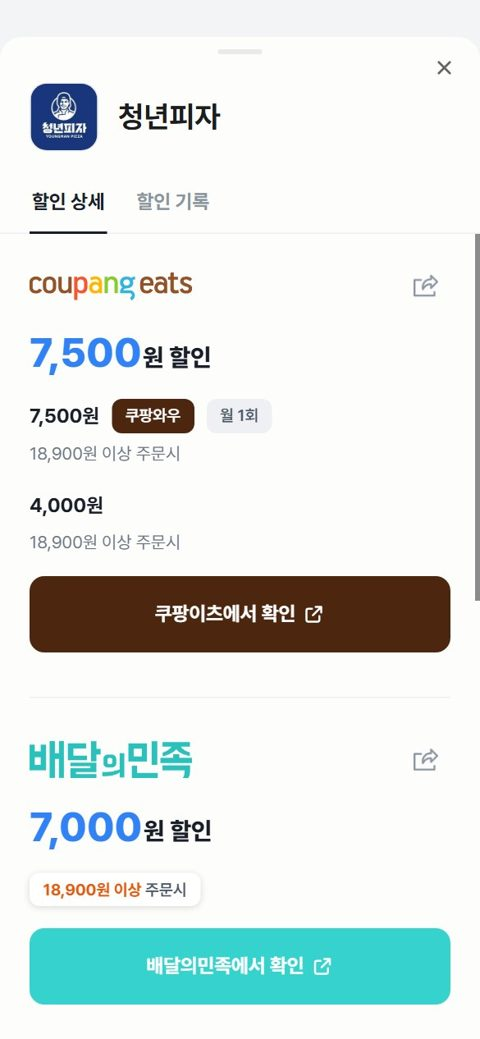
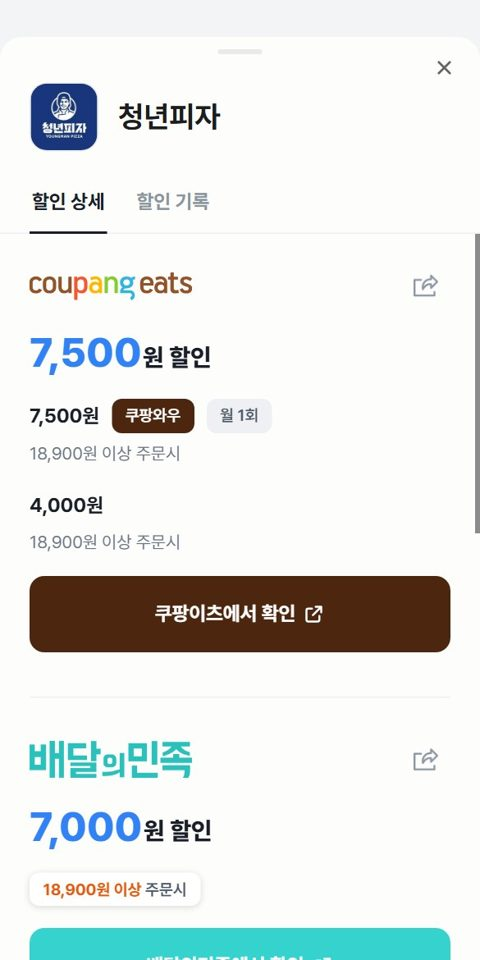
mirror: woowacourse-teams/2026-to-discount@e505160c30e996b55fed7e2d63073cb35e5df7a6
이 저장소에 직접 커밋하지 않는다. 원본은 woowacourse-teams/2026-to-discount의 web/ 이고, 여기 직접 넣은 것은 다음 미러에 덮인다.

diff --git a/public/about/index.html b/public/about/index.html
@@ -48,7 +48,8 @@
 
     .slide { position: relative; height: 100dvh; display: flex; flex-direction: column; justify-content: center; padding: 72px 20px 88px; overflow: hidden; overflow: clip; }
     .slide__in { width: 100%; max-width: 1080px; margin: 0 auto; }
-    .brand { position: absolute; top: 20px; left: 20px; right: 20px; max-width: 1080px; margin: 0 auto; font-weight: 800; text-decoration: none; letter-spacing: -.01em; }
+    .brand { position: absolute; top: 12px; left: 12px; display: flex; align-items: center; gap: 8px; font-weight: 800; text-decoration: none; letter-spacing: -.01em; z-index: 3; } /* 왼쪽 위 모서리. 로고는 .brand__logo에 src를 넣고 hidden을 지우면 이름 앞에 붙는다 */
+    .brand__logo { width: 24px; height: 24px; border-radius: 6px; object-fit: contain; }
     .next { position: absolute; left: 50%; bottom: 24px; transform: translateX(-50%); width: 40px; height: 40px; display: grid; place-items: center; border-radius: 50%; color: var(--muted); text-decoration: none; z-index: 2; }
     .next svg { width: 20px; height: 20px; }
     @media (max-width: 767px) { .next { bottom: 6px; width: 36px; height: 36px; background: color-mix(in srgb, var(--bg) 72%, transparent); } }
@@ -73,7 +74,7 @@
     .split .btn { margin-top: 28px; }
     @media (max-width: 767px) { #s1 .btn { display: flex; width: fit-content; margin-left: auto; margin-right: auto; } }
     .phone { justify-self: center; width: min(calc(100vw - 32px), 450px); padding: 10px; border-radius: 48px; background: var(--bezel); box-shadow: 0 30px 70px -30px rgba(49, 130, 246, .35); }
-    .phone__screen { position: relative; aspect-ratio: 390 / 844; border-radius: 38px; overflow: hidden; overflow: clip; background: #fbfbfa; }
+    .phone__screen { position: relative; aspect-ratio: 390 / 780; border-radius: 38px; overflow: hidden; overflow: clip; background: #fbfbfa; }
     .phone__screen::before { content: ''; position: absolute; top: 7px; left: 50%; width: 7px; height: 7px; transform: translateX(-50%); border-radius: 50%; background: var(--bezel); z-index: 1; } /* 카메라 구멍: 표시만 */
     .phone img { display: block; width: 100%; height: 100%; object-fit: cover; object-position: top; }
     .apps { display: flex; gap: 10px; margin-bottom: 22px; }
@@ -194,7 +195,7 @@
     }
       
     /* 폰 화면이 잘리지 않게: 데스크톱은 화면 높이에 맞춰 폰을 줄이고, 첫 장은 모바일에서 글을 작게 둔다 */
-    @media (min-width: 768px) { .slide--shot .phone { width: min(450px, calc((100dvh - 76px) * .462)); } .slide--shot .next { bottom: 6px; } }
+    @media (min-width: 768px) { .slide--shot .phone { width: min(480px, calc((100dvh - 90px) * .5)); } .slide--shot .next { bottom: 6px; } }
     @media (max-width: 767px) {
       #s1 { padding-top: 48px; }
       #s1 h1 { font-size: 2rem; }
@@ -227,7 +228,7 @@
       .slide--shot h1, .slide--shot h2 { flex: 0 0 42%; font-size: 1.2rem; line-height: 1.25; }
       .slide--shot .lead { flex: 1; margin: 0; font-size: .8rem; line-height: 1.45; }
       .slide--shot .lead br { display: none; }
-      .slide--shot .phone { width: min(100%, calc((100dvh - 190px) * .462 + 16px)); justify-self: center; align-self: center; padding: 8px; border-radius: 34px; }
+      .slide--shot .phone { width: min(100%, calc((100dvh - 218px) * .5 + 16px)); justify-self: center; align-self: center; padding: 8px; border-radius: 34px; }
       .slide--shot .phone__screen { border-radius: 27px; }
       #s1 h1 { font-size: 1.35rem; }
       #s1 .btn, #s2 .apps { display: none; }
@@ -243,7 +244,7 @@
     /* 3장: 청년피자 시트 폰, 쿠팡이츠 이름 옆 표시 */
     .tagc { margin-left: 6px; padding: 2px 9px; border: 1px solid var(--border); border-radius: 999px; font-size: .74rem; font-weight: 700; color: var(--muted); white-space: nowrap; }
     @media (min-width: 768px) {
-      #s3 .diff { grid-template-columns: 310px minmax(0, 1fr) min(290px, calc((100dvh - 130px) * .462 + 20px)); gap: 32px; }
+      #s3 .diff { grid-template-columns: 310px minmax(0, 1fr) min(300px, calc((100dvh - 90px) * .5)); gap: 32px; }
       #s3 .grid4 { max-width: 460px; }
       #s3 .phone { width: 100%; }
     }
@@ -257,7 +258,7 @@
       #s3 .grid4 .row + .row { display: none; }
       #s3 .grid4 img.shot { max-height: 96px; }
       #s3 .grid4 figcaption { font-size: .8rem; margin-top: 4px; }
-      #s3 .phone { width: min(100%, calc((100dvh - 320px) * .462 + 16px)); justify-self: center; padding: 8px; border-radius: 34px; }
+      #s3 .phone { width: min(100%, calc((100dvh - 330px) * .5 + 16px)); justify-self: center; padding: 8px; border-radius: 34px; }
       #s3 .phone__screen { border-radius: 27px; }
     }
     /* 마무리: 가운데 구분선(제목과 바로가기 사이) */
@@ -265,10 +266,10 @@
     @media (max-width: 767px) { .final .cta { border-left: 0; padding-left: 0; border-top: 1px solid var(--border); padding-top: 18px; align-items: center; text-align: center; } }
   
     /* 제목과 설명을 한 묶음으로: 사이에 구분선, 왼쪽 여백. 폰은 조금 아래로 */
-    :root { --hx: clamp(8px, 3.5vw, 56px); }
+    :root { --hx: clamp(12px, 3.5vw, 56px); }
     .split > div:first-child, .diff > div:first-child, .final .split > h2 { padding-left: var(--hx); }
     .slide--shot .lead, #s3 .lead { margin-top: 18px; padding-top: 18px; border-top: 1px solid var(--border); max-width: 24rem; }
-    .phone { margin-top: 18px; }
+    .phone { margin-top: 40px; }
     @media (max-width: 767px) {
       .split > div:first-child, .diff > div:first-child, .final .split > h2 { padding-left: 0; }
       .slide--shot { padding-left: 24px; }
@@ -276,9 +277,10 @@
       .slide--shot h1, .slide--shot h2, #s3 h2 { flex: 0 0 auto; max-width: 46%; padding-right: 14px; border-right: 1px solid var(--border); }
       .slide--shot .lead, #s3 .lead { flex: 0 1 auto; max-width: 52%; margin: 0; padding: 0 0 0 14px; border-top: 0; }
       .slide--shot .lead br, #s3 .lead br { display: inline; }
-      .phone { margin-top: 16px; }
-      .final h2 { padding-left: 8px; }
+      .phone { margin-top: 30px; }
+      .final h2 { padding-left: 12px; font-size: 1.3rem; }
     }
+      .final h2 { white-space: nowrap; font-size: clamp(1.5rem, 3.2vw, 2.6rem); }
   </style>
   <script>document.documentElement.classList.add('js')</script>
 </head>
@@ -287,7 +289,7 @@
    <div class="pg" id="pg" aria-hidden="true"></div>
    <div class="track">
     <section class="slide slide--shot" id="s1">
-      <a class="brand" href="/">배달앱 할인모음</a>
+      <a class="brand" href="/"><img class="brand__logo" alt="" hidden width="24" height="24" /><span class="brand__name">배달앱 할인모음</span></a>
       <div class="slide__in split">
         <div>
           <h1 class="rise" style="--i:1">배달앱 할인,<br /><em>한 눈에</em> 보기</h1>
@@ -373,7 +375,7 @@
     <section class="slide final" id="s6">
       <div class="slide__in">
         <div class="split">
-          <h2 class="rise">빠르고 저렴하게,<br /><em>한 눈에 보는<br />오늘의 할인</em></h2>
+          <h2 class="rise">빠르고 저렴하게,<br /><em>한 눈에 보는 오늘의 할인</em></h2>
           <div class="cta rise" style="--i:1">
             <p>지금 받을 수 있는 할인,<br /><em>바로 확인</em>해 보세요</p>
             <a class="btn" href="/">바로가기 <i><svg viewBox="0 0 16 16" fill="none" stroke="currentColor" stroke-width="2" stroke-linecap="round"><path d="M3 8h10M9 4l4 4-4 4" /></svg></i></a>
